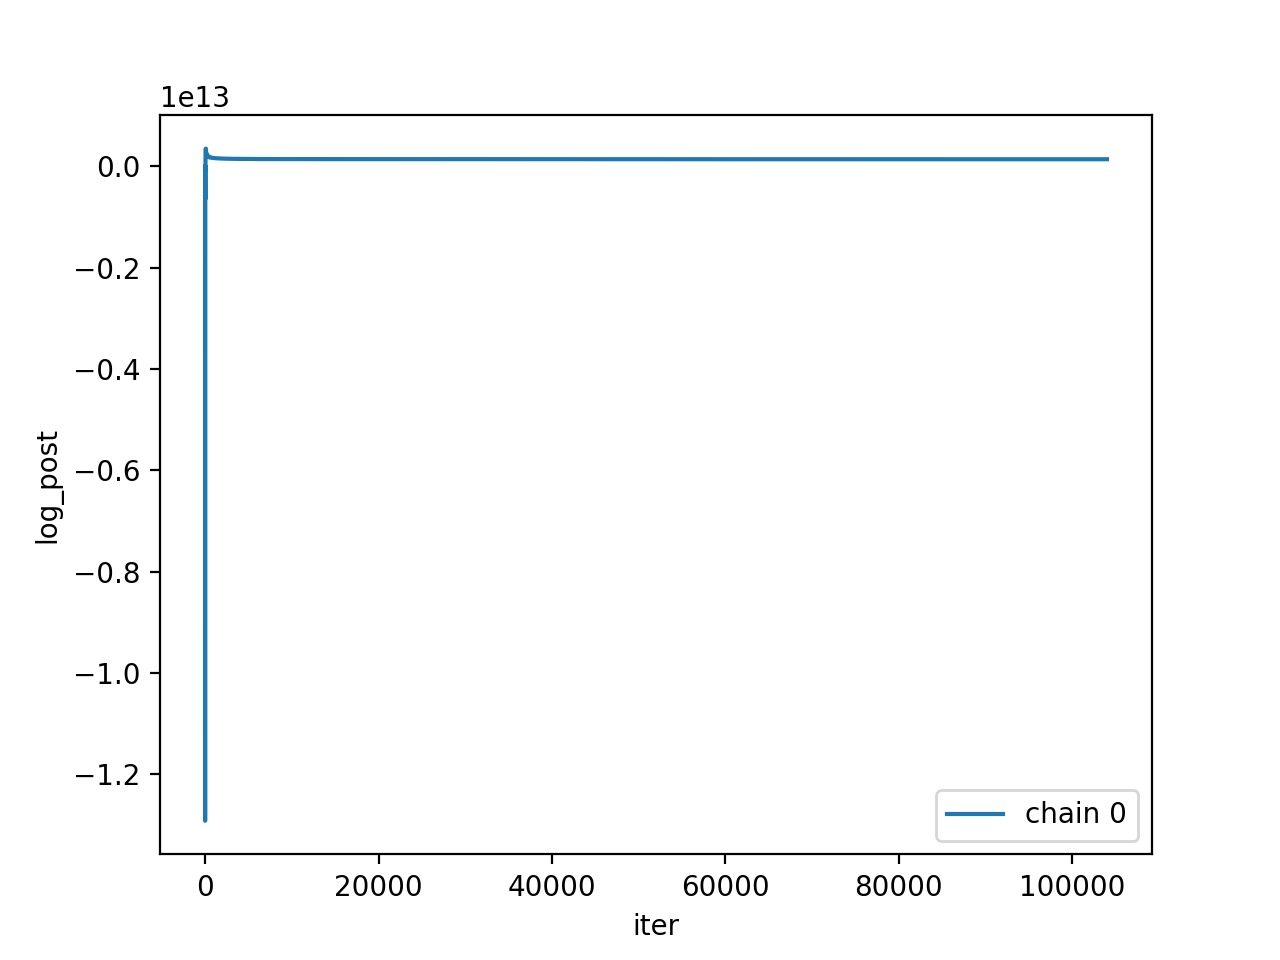
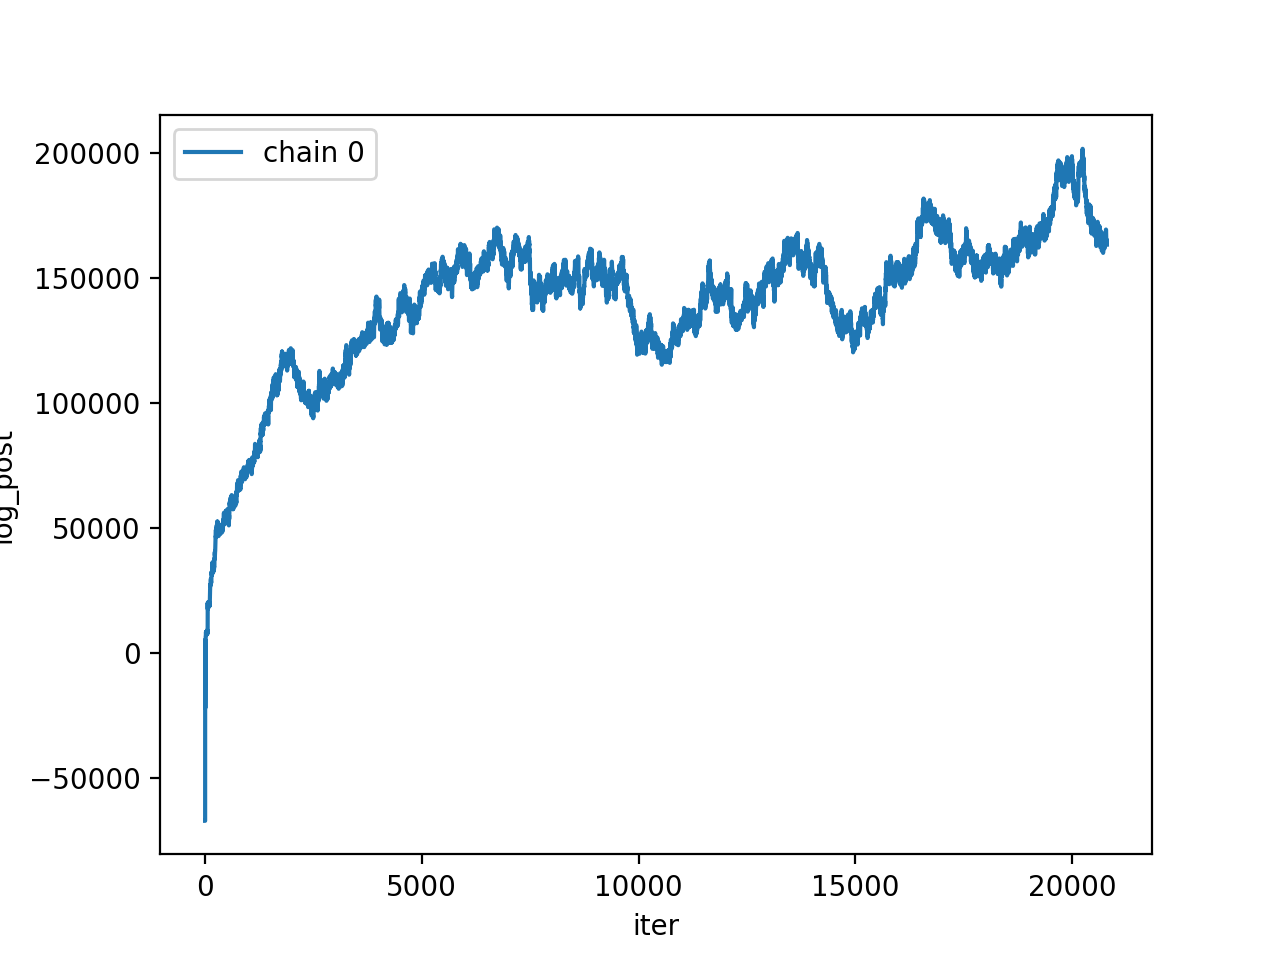
all_rand16 aka airports

diff --git a/collaborations.py b/collaborations.py
@@ -60,37 +60,33 @@ air = nx.read_edgelist('data/airports/airports_us.txt', nodetype=int, data=(('we
 G = nx.relabel.convert_node_labels_to_integers(air)
 
 L0 = air.number_of_nodes()
-L = air.number_of_nodes() + 200
+L = air.number_of_nodes() + 300
 G.add_nodes_from(range(L0, L))
 
 G.graph['ground_truth'] = 0
 
-n = lil_matrix((L, L))
-for i in range(L):
-    for j in range(L):
-        if j >= i:
-            if G.get_edge_data(i, j, default=0) != 0:
-                n[i, j] = G.get_edge_data(i, j, default=0)['weight']
-n = csr_matrix(n)
-G.graph['counts'] = n
-sum_n = np.array(csr_matrix.sum(n, axis=0) + np.transpose(csr_matrix.sum(n, axis=1)))[0]
-G.graph['sum_n'] = sum_n
-G.graph['sum_fact_n'] = 0
+# n = lil_matrix((L, L))
+# for i in range(L):
+#     for j in range(L):
+#         if j >= i:
+#             if G.get_edge_data(i, j, default=0) != 0:
+#                 n[i, j] = G.get_edge_data(i, j, default=0)['weight']
+# n = csr_matrix(n)
+# G.graph['counts'] = n
+# sum_n = np.array(csr_matrix.sum(n, axis=0) + np.transpose(csr_matrix.sum(n, axis=1)))[0]
+# G.graph['sum_n'] = sum_n
+# G.graph['sum_fact_n'] = 0
 
 init = {}
 init[0] = {}
 
-
-init[0]['n_init'] = n
-init[0]['sum_fact_n'] = 0
-
 init[0]['sigma_init'] = 0.15  # 2 * np.log(L) / np.log(G.number_of_edges()) - 1
 init[0]['c_init'] = 1.5
-init[0]['t_init'] = 40
+init[0]['t_init'] = np.sqrt(G.number_of_edges())
 
 init[0]['beta_init'] = np.ones(L)
 
-iter = 100000
+iter = 10000
 nburn = int(iter * 0.25)
 
 out = chain.mcmc_chains([G], iter, nburn,
@@ -101,7 +97,7 @@ out = chain.mcmc_chains([G], iter, nburn,
                         x=True,
                         # beta=False,
                         prior='singlepl', nchain=1, w_inference='gibbs',
-                        gamma=0,
+                        gamma=1,
                         size_x=1,
                         sigma_sigma=0.01, sigma_c=0.01, sigma_t=0.01, sigma_tau=0.01, sigma_x=0.01,
                         epsilon=0.01, R=5,
